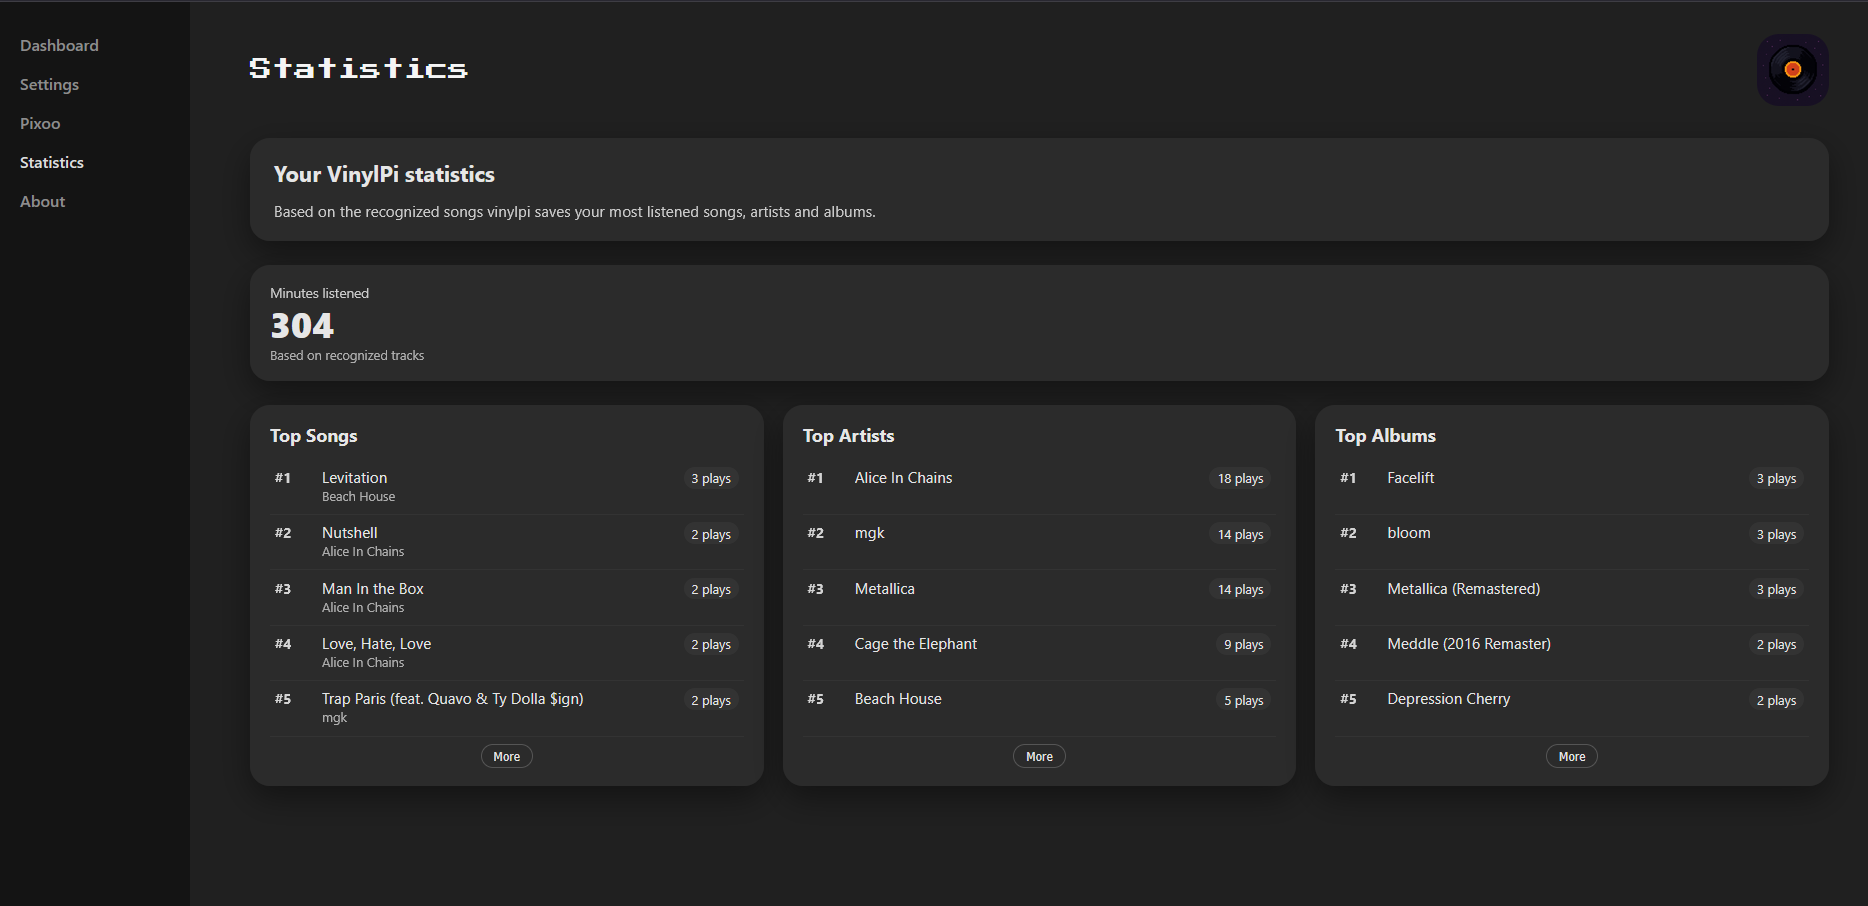
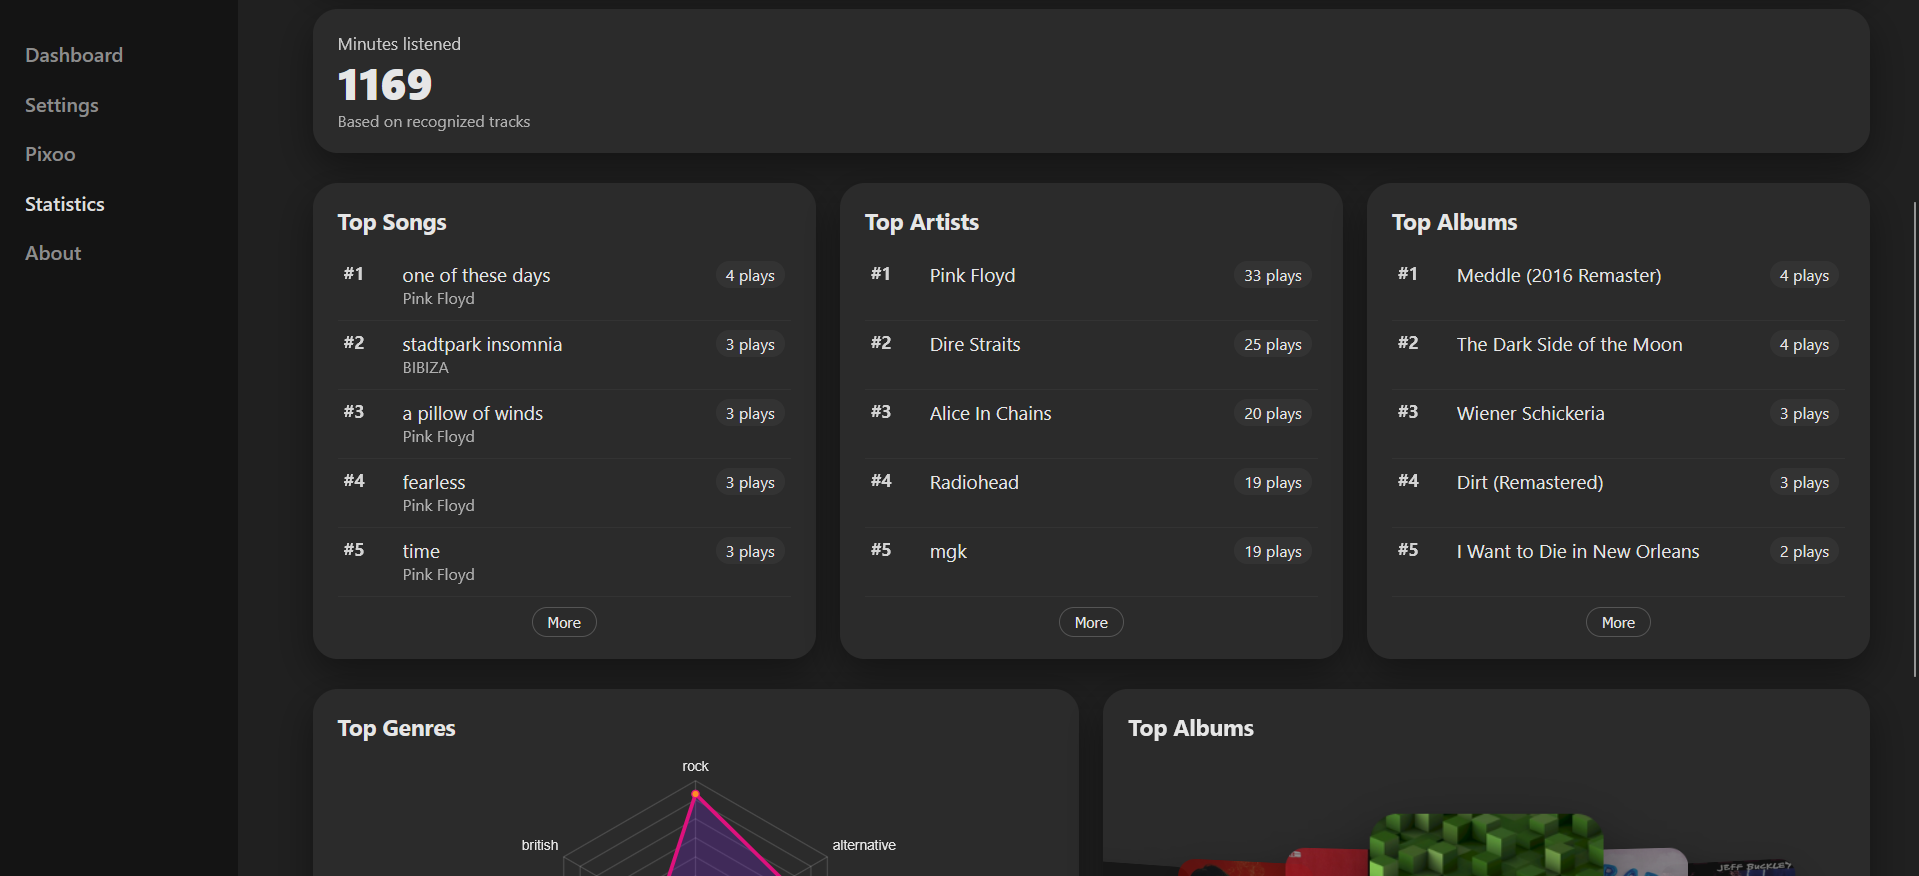
docs: update readme

diff --git a/README.md b/README.md
@@ -68,7 +68,7 @@ If you use different hardware, you will most likely have to modify parts of the 
 
 ### WebApp Mobile
 
-| <img src="assets/readme/webapp_dashboard_mobile.PNG" height="600" /> | <img src="assets/readme/webapp_pixoo_mobile.PNG" height="600" /> |
+| <img src="assets/readme/webapp_dashboard_mobile.jpeg" height="600" /> | <img src="assets/readme/webapp_pixoo_mobile.PNG" height="600" /> |
 
 ### WebApp Desktop
 
@@ -119,7 +119,7 @@ If you don't want to use the web interface, you will have to edit the config man
 ```bash
 nano data/config.json
 ```
-Get an [Last FM API key (free)](https://www.last.fm/api) for the statistics webpage and add it to the env:
+Get an [Spotify API Keyset](https://developer.spotify.com/documentation/web-api) and a [Last FM API key (free)](https://www.last.fm/api) for the statistics webpage and add it to the env:
 ```bash
 nano vinylpi.env
 ```
